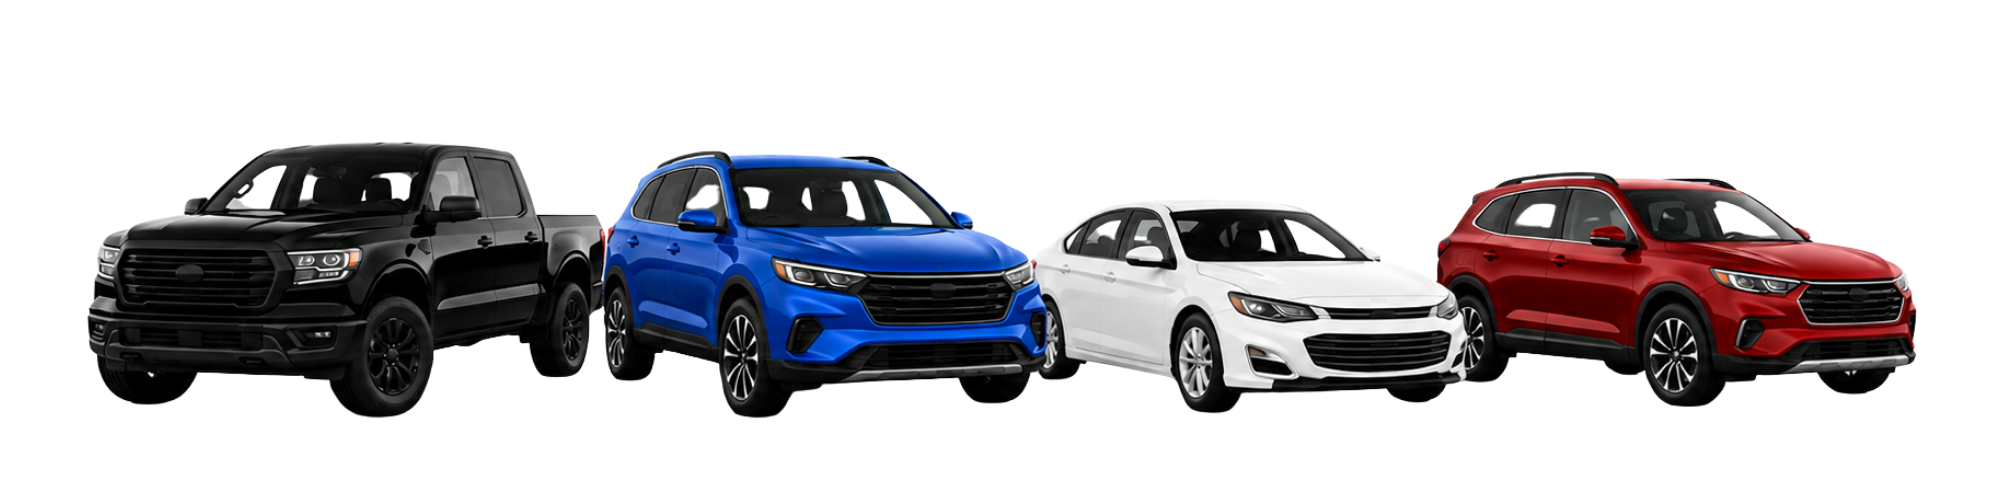
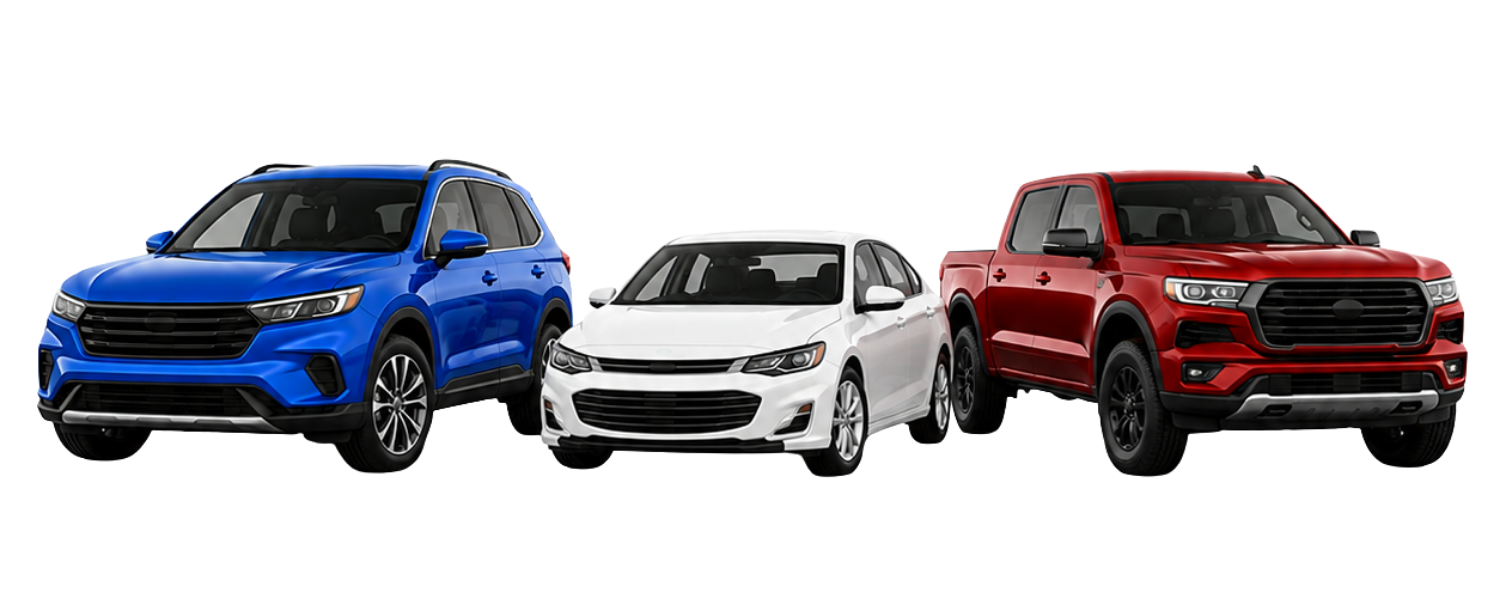
Update headline copy, enlarge subhead, remove eyebrow badge, swap fleet image

diff --git a/vehicle-protection-landing/index.html b/vehicle-protection-landing/index.html
@@ -46,18 +46,6 @@
     align-items:start;
   }
 
-  .eyebrow{
-    display:inline-block;
-    background:rgba(226,35,26,0.1);
-    color:var(--red);
-    font-weight:700;
-    font-size:13px;
-    letter-spacing:0.04em;
-    text-transform:uppercase;
-    padding:6px 14px;
-    border-radius:999px;
-    margin-bottom:18px;
-  }
   h1{
     font-size:44px;
     line-height:1.08;
@@ -67,8 +55,8 @@
     margin-bottom:16px;
   }
   .subhead{
-    font-size:20px;
-    font-weight:600;
+    font-size:28px;
+    font-weight:700;
     color:var(--blue);
     margin-bottom:28px;
   }
@@ -255,8 +243,7 @@
 <main>
   <div class="wrap grid">
     <div>
-      <span class="eyebrow">Limited Time Offer</span>
-      <h1>DON'T PAY FOR AUTO REPAIRS</h1>
+      <h1>SAVE THOUSANDS ON AUTO REPAIRS</h1>
       <p class="subhead">Sign Up Today and Get <strong>$300 Off!</strong></p>
 
       <ul class="benefits">
